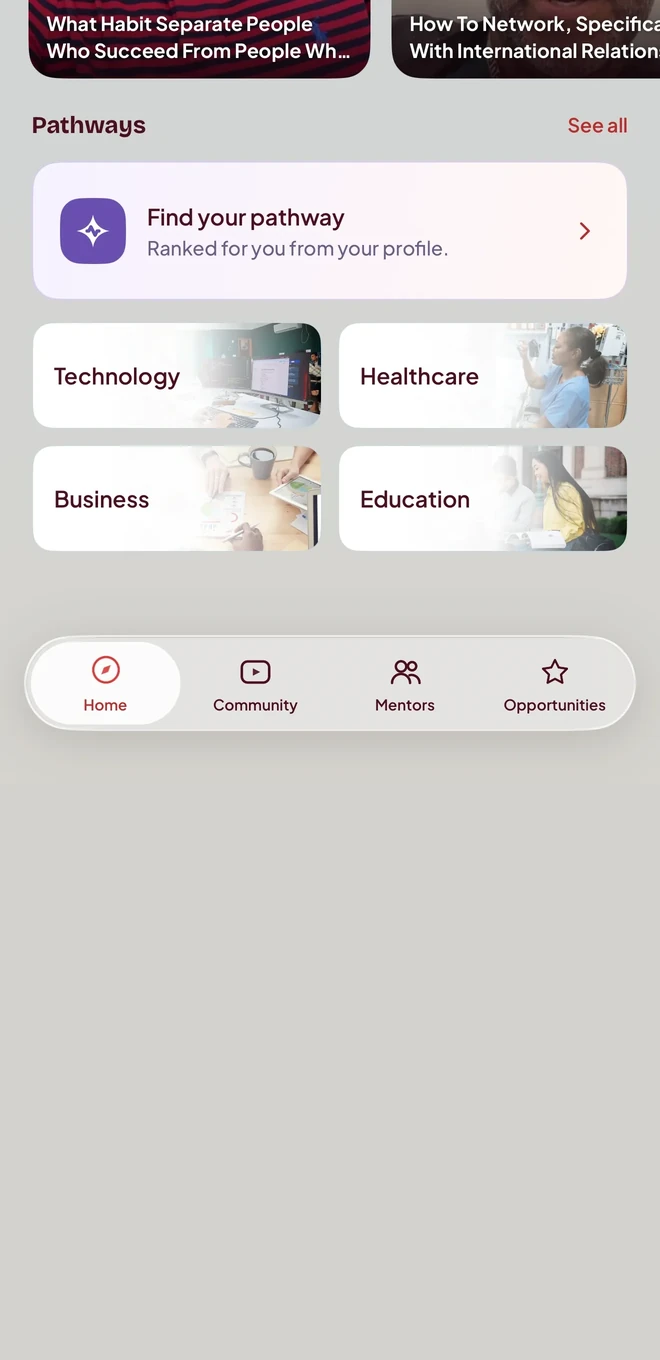
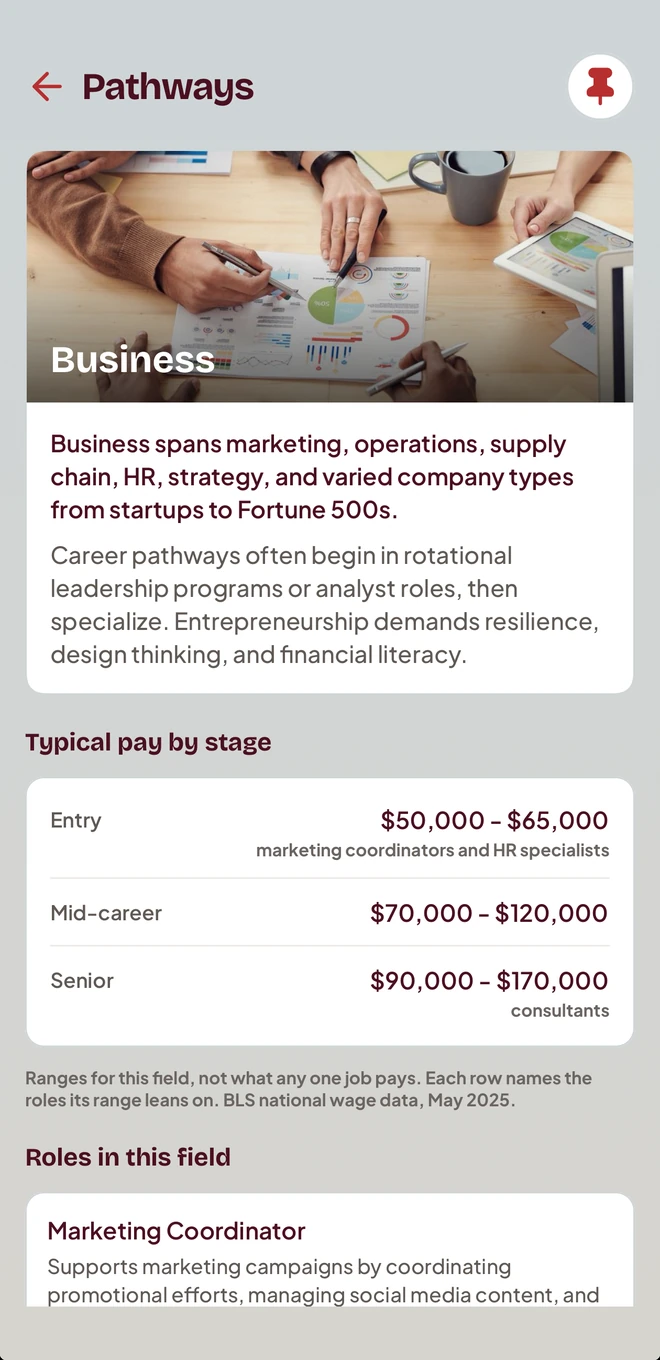
The Pathways card is a real opened pathway, and the lede is Thomas's
Captured on a phone running 2.0: the Business pathway, cut to the cards' own
format (141px of status bar, the same 5.16% the other three dropped, then the
top of the frame at 0.4853 so the visible region is not squashed). Replaces
the composite that scrolled the Home screen to bring Pathways into frame.

Lede: 'Every screen rebuilt, new innovative features, and the same account you
already have. Update from the App Store.'

diff --git a/dl-page.js b/dl-page.js
@@ -85,7 +85,7 @@
     // App screens, status bar cropped (148 of 1320px); the frame paints it back.
     scrConv:  GH + 'phone-conversations.webp',
     scrPulse: GH + 'phone-pulse-ai.webp',
-    scrPath:  GH + 'phone-pathways.webp',              // Pathway discovery, scrolled into frame
+    scrPath:  GH + 'phone-pathways.webp',              // an opened pathway, captured on 2.0
     scrDark:  GH + 'phone-dark-mode.webp',             // Home in dark; the look card
     scrTime:  GH + 'phone-career-timeline.webp',       // unused since Sep 21, kept for the asset
     // Feature grid photos; the Milestone card is the redesign's Ascent artwork, zoomed.
@@ -580,14 +580,14 @@
     var h2 = el('h2');
     h2.innerHTML = 'Same mission. <span>Upgraded.</span>';
     header.appendChild(h2);
-    header.appendChild(el('p', null, 'A major upgrade, not a coat of paint. Every screen rebuilt, capabilities that did not exist before, and the same account you already have. Update from the App Store.'));
+    header.appendChild(el('p', null, 'Every screen rebuilt, new innovative features, and the same account you already have. Update from the App Store.'));
     inner.appendChild(header);
 
     var grid = el('div', { className: 'dl-new-grid' });
     var items = [
       { img: IMG.scrConv,  status: '#bfcacd', title: 'Conversations', tag: '18+', desc: 'Private messages with your mentor, safety-screened before delivery.' },
       { img: IMG.scrPulse, status: '#f6f2ff', title: 'Pulse AI', tag: '18+', desc: 'A career coach that knows your profile and answers right now.' },
-      { img: IMG.scrPath,  status: '#d3d2ce', title: 'Timeline & Pathways', desc: 'Explore careers ranked from your profile, and map where you are headed.' },
+      { img: IMG.scrPath,  status: '#ced5d7', title: 'Timeline & Pathways', desc: 'Explore careers ranked from your profile, and map where you are headed.' },
       { img: IMG.scrDark,  status: '#140f1f', title: 'A whole new look', desc: 'Every screen rebuilt from the ground up, in light and dark.' },
     ];
     items.forEach(function(it) {
